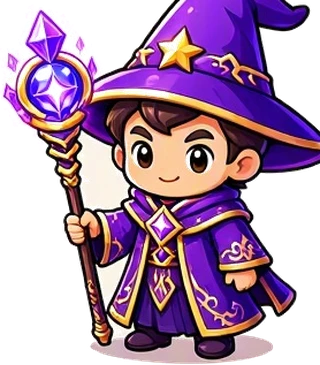
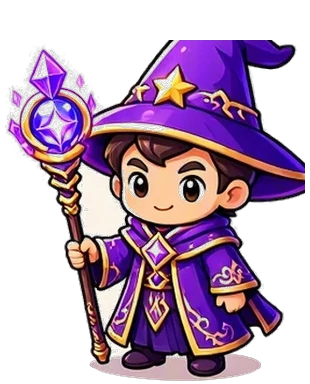
Comandantes a su tamaño en el inicio y en Mazo, y botón de Mejorar ilustrado

diff --git a/style.css b/style.css
@@ -1026,7 +1026,7 @@ x-ico.off { filter: grayscale(1) brightness(0.45); opacity: 0.75; }
 .cmd-banner::after { display: none; }
 .cmd-banner:active { transform: translateY(2px); }
 /* la figura del comandante asoma por encima del banner */
-.cmd-banner img { position: absolute; left: 5%; bottom: 10%; height: 132%; width: auto; filter: drop-shadow(0 3px 0 rgba(0,0,0,0.45)); }
+.cmd-banner img { position: absolute; left: 4%; bottom: 10%; height: 118%; width: auto; max-width: 30%; object-fit: contain; object-position: 50% 100%; filter: drop-shadow(0 3px 0 rgba(0,0,0,0.45)); }
 .cb-txt { position: absolute; left: 31%; right: 34%; top: 50%; transform: translateY(-50%); text-align: left; line-height: 1.05; }
 .cb-txt small { display: block; font-size: 0.72rem; color: #fff1b8; -webkit-text-stroke-width: 4px; }
 .cb-txt b { display: block; font-size: clamp(0.9rem, 4.4vw, 1.15rem); line-height: 1; white-space: normal; -webkit-text-stroke-width: 6px; text-shadow: 0 3px 0 var(--edge); }
@@ -2023,7 +2023,7 @@ x-ico.off { filter: grayscale(1) brightness(0.45); opacity: 0.75; }
   background: none; filter: none;
 }
 .deck-panel .cmd-banner::before { inset: 12% 3% 0 3%; }
-.deck-panel .cmd-banner img { height: 148%; bottom: 11%; }
+.deck-panel .cmd-banner img { height: 128%; bottom: 11%; }
 .deck-panel .cb-slot { top: 30.7%; height: 37%; }
 .deck-panel .deck-preview {
   position: absolute; left: 9.18%; top: 48.94%; width: 81.56%; height: 39.64%; aspect-ratio: auto; margin: 0;
@@ -2093,7 +2093,9 @@ x-ico.off { filter: grayscale(1) brightness(0.45); opacity: 0.75; }
 
 /* figura del comandante encajada en su hueco: entera, sin pasarse del
    ancho (Brann es el triple de ancho que Morgana) y apoyada abajo */
-.ch-stage { width: 38%; min-height: 0; height: 168px; align-self: center; }
+.ch-stage { width: 36%; min-height: 0; height: 156px; align-self: center; }
+/* la tarjeta nunca más baja que la figura (si no, la cortaba por abajo) */
+.cmd-hero .ch-top { min-height: 164px; }
 .ch-body {
   left: 0; right: 0; bottom: 0; top: 0; width: 100%; height: 100%; max-width: 100%; transform: none;
   object-fit: contain; object-position: 50% 100%;
@@ -2558,7 +2560,7 @@ body[data-screen="collection"], body[data-screen="commanders"], body[data-screen
 .unit-card .us-bar span { background: linear-gradient(180deg, #d9bda6, #a3826c 55%, #6e5444); }
 .unit-card .us-val { min-width: 52px; padding: 3px 9px; border-radius: 9px; background: #12161c; box-shadow: inset 0 1px 3px rgba(0,0,0,0.6); }
 .unit-card .uc-trait { background: #1b222b; border: 2px solid #3d444c; }
-.unit-card .uc-level { min-height: 70px; padding: 10px 14px 10px 10px; border: 0; border-radius: 0; background: url(assets/ui/ficha-nivel.webp) center / 100% 100% no-repeat; }
+.unit-card .uc-level { min-height: 70px; padding: 10px 14px 10px 10px; border: 0; border-radius: 0; background: url(assets/ui/ficha-nivel.webp?v=2) center / 100% 100% no-repeat; }
 .unit-card .uc-lvmedal {
   width: 50px; height: 52px; border: 0; border-radius: 0; box-shadow: none; padding-bottom: 4px;
   background: url(assets/ui/ficha-escudo.webp) center / 100% 100% no-repeat; color: #f1c24a; font-size: 1.5rem;
@@ -2567,3 +2569,17 @@ body[data-screen="collection"], body[data-screen="commanders"], body[data-screen
 .unit-card .uc-level .ubar { height: 15px; background: #0e1f14; border: 2px solid #7a5a2a; }
 .unit-card .uc-level .ubar span, .unit-card .uc-level .ubar.ok span { background: url(assets/ui/ficha-barra.webp) left center / 100% 100% no-repeat; border-radius: 999px; }
 .unit-card .uc-level .ubar em { line-height: 11px; text-shadow: 0 1px 0 #000; }
+
+/* botón verde ilustrado de Mejorar (assets/ui/ficha-mejorar, de la plantilla de ficha):
+   los cantos con las gemas no se estiran, solo el centro */
+.btn.btn-up, .btn.btn-up:disabled {
+  min-height: 62px; padding: 6px 30px 10px; border-radius: 0; box-shadow: none; background: none; color: #fff;
+  border: solid transparent; border-width: 0 46px; border-image: url(assets/ui/ficha-mejorar.webp) 0 46 fill / 0 46px stretch;
+  font-size: 1.45rem; -webkit-text-stroke: 5px #0e3a1c; paint-order: stroke fill; text-shadow: 0 3px 0 #0e3a1c;
+  filter: drop-shadow(0 4px 0 rgba(10,12,40,0.45));
+}
+.btn.btn-up::before, .btn.btn-up::after { display: none; }
+.btn.btn-up:active { transform: translateY(3px); box-shadow: none; filter: drop-shadow(0 1px 0 rgba(10,12,40,0.45)); }
+.btn.btn-up:disabled { filter: grayscale(0.9) brightness(0.7); }
+.btn.btn-up { display: flex; align-items: center; justify-content: center; gap: 6px; white-space: nowrap; padding: 4px 6px 8px; }
+.btn.btn-up x-ico { flex-shrink: 0; }

diff --git a/index.html b/index.html
@@ -15,7 +15,7 @@
 <link rel="preconnect" href="https://fonts.googleapis.com">
 <link rel="preconnect" href="https://fonts.gstatic.com" crossorigin>
 <link href="https://fonts.googleapis.com/css2?family=Fredoka:wght@500;600;700&family=Lilita+One&family=Nunito:wght@700;800;900&family=Titan+One&display=swap" rel="stylesheet">
-<link rel="stylesheet" href="style.css?v=73">
+<link rel="stylesheet" href="style.css?v=74">
 </head>
 <body>
   <div id="menu" class="menu"></div>
@@ -57,8 +57,8 @@
   <div id="overlay" class="overlay" hidden></div>
   <div id="toast" class="toast"></div>
 
-  <script src="js/data.js?v=56"></script>
-  <script src="js/version.js?v=58"></script>
+  <script src="js/data.js?v=57"></script>
+  <script src="js/version.js?v=59"></script>
   <script src="js/art.js?v=51"></script>
   <script src="js/meta.js?v=36"></script>
   <script src="js/board.js?v=56"></script>

diff --git a/js/data.js b/js/data.js
@@ -539,7 +539,7 @@ var COMMANDERS = {
   torvald: { name: 'Torvald', title: 'Viejo Maestro', color: '#ff7a3c', icon: '🧮', locked: true, pic: 'assets/commanders/torvald.webp?v=3', hero: 1, ability: 'Forja', desc: 'Eliges una tropa y sube un rango, hasta el 5.', power: 1, cd: 90, grow: 0.6 }
 };
 var COMMANDER_ORDER = ['aria', 'merlo', 'brann', 'nyx', 'sol', 'morgana', 'torvald'];
-COMMANDER_ORDER.forEach(function (k) { var c = COMMANDERS[k]; c.body = c.gen ? '' : 'assets/commanders/' + k + '-cuerpo.webp?v=3'; });
+COMMANDER_ORDER.forEach(function (k) { var c = COMMANDERS[k]; c.body = c.gen ? '' : 'assets/commanders/' + k + '-cuerpo.webp?v=4'; });
 // niveles de comandante: cada nivel, +CMD_BONUS de fuerza en su habilidad.
 // Sus cartas salen solo en el cofre de comandante (pocas), por eso piden menos.
 // Del 11 al 25 cada nivel da menos (CMD_BONUS_HIGH) y pide bastante más.

diff --git a/js/version.js b/js/version.js
@@ -7,8 +7,16 @@
    La ventana sale sola al entrar con una versión nueva (meta.lastSeenVersion)
    y también desde Opciones.
    ========================================================= */
-var APP_VERSION = '1.31.0';
+var APP_VERSION = '1.31.1';
 var APP_PATCH_NOTES = [
+  {
+    version: '1.31.1',
+    summary: 'Comandantes a su tamaño y botón de mejorar nuevo',
+    items: [
+      'Los comandantes ya caben enteros en el inicio y en Mazo, sin salirse ni cortarse.',
+      'El botón de Mejorar de tropas y comandantes estrena dibujo.'
+    ]
+  },
   {
     version: '1.31.0',
     summary: 'Comandantes redibujados y ficha de tropa nueva',

diff --git a/sw.js b/sw.js
@@ -6,7 +6,7 @@
 // archivo por su cuenta: si uno falla, los demás se quedan. El arte (EXTRA)
 // se baja después, de pocos en pocos y sin bloquear, y lo que se vaya
 // usando se guarda igualmente al pedirlo.
-var CACHE = 'reino-de-torres-v96';
+var CACHE = 'reino-de-torres-v97';
 // tropas con el dibujo nuevo (assets/personajes)
 var NEW_ART = ['cronos', 'eco', 'garra', 'halcon', 'kaia', 'lyra', 'oria', 'rocco', 'seren', 'sombra', 'titan', 'fenix'];
 var CORE = ['./', 'index.html', 'style.css', 'favicon.svg', 'manifest.json', 'js/data.js', 'js/version.js', 'js/art.js', 'js/meta.js', 'js/board.js', 'js/battle.js', 'js/music.js', 'js/ui.js',
